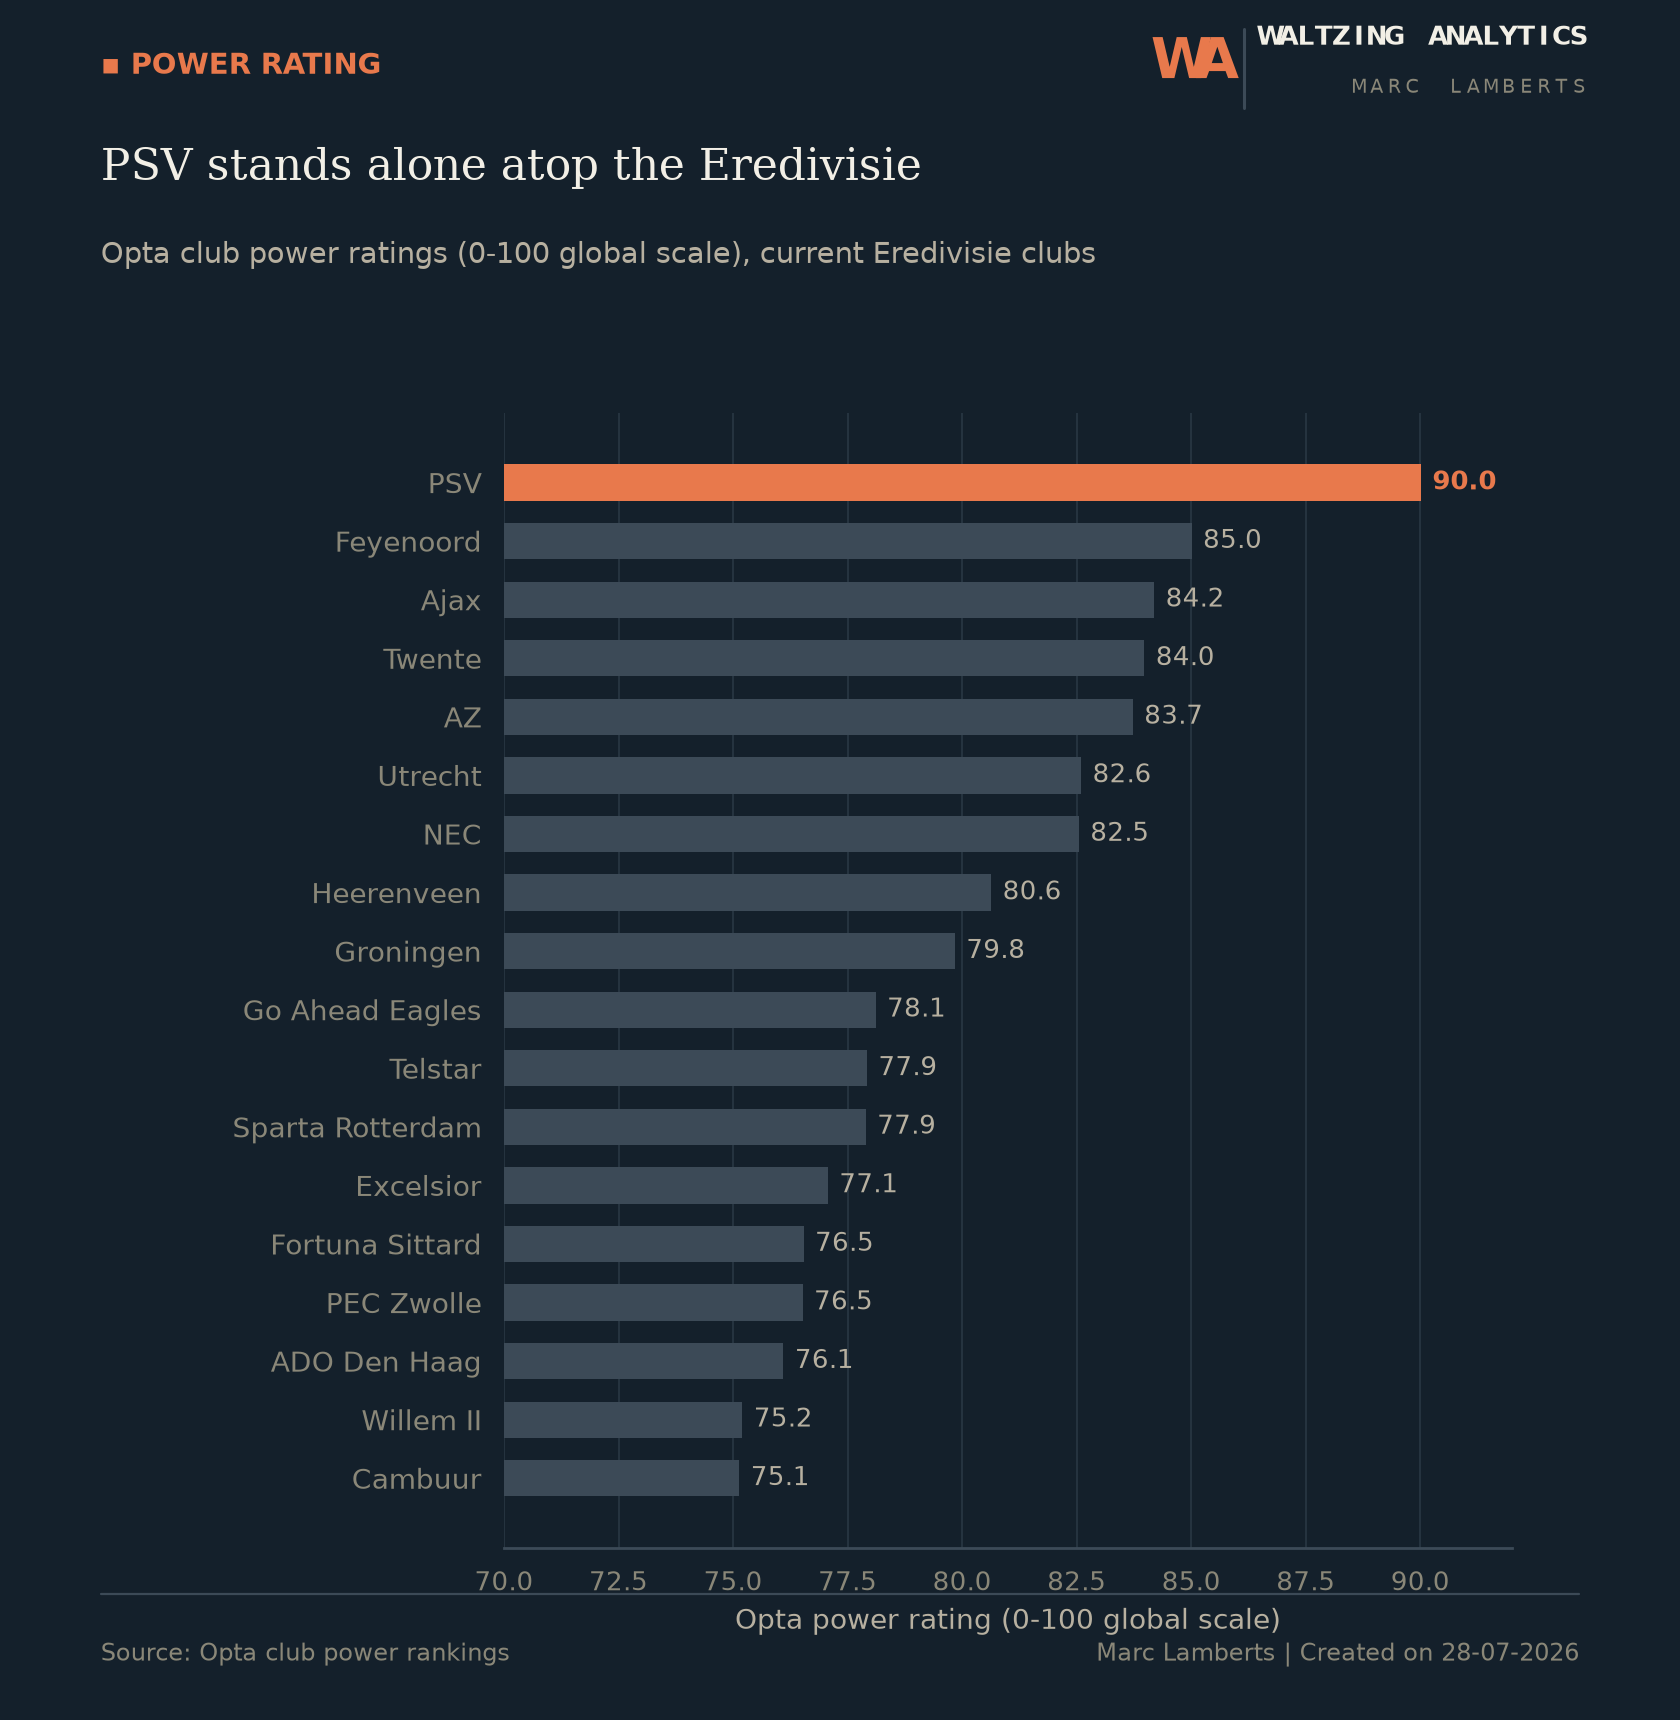
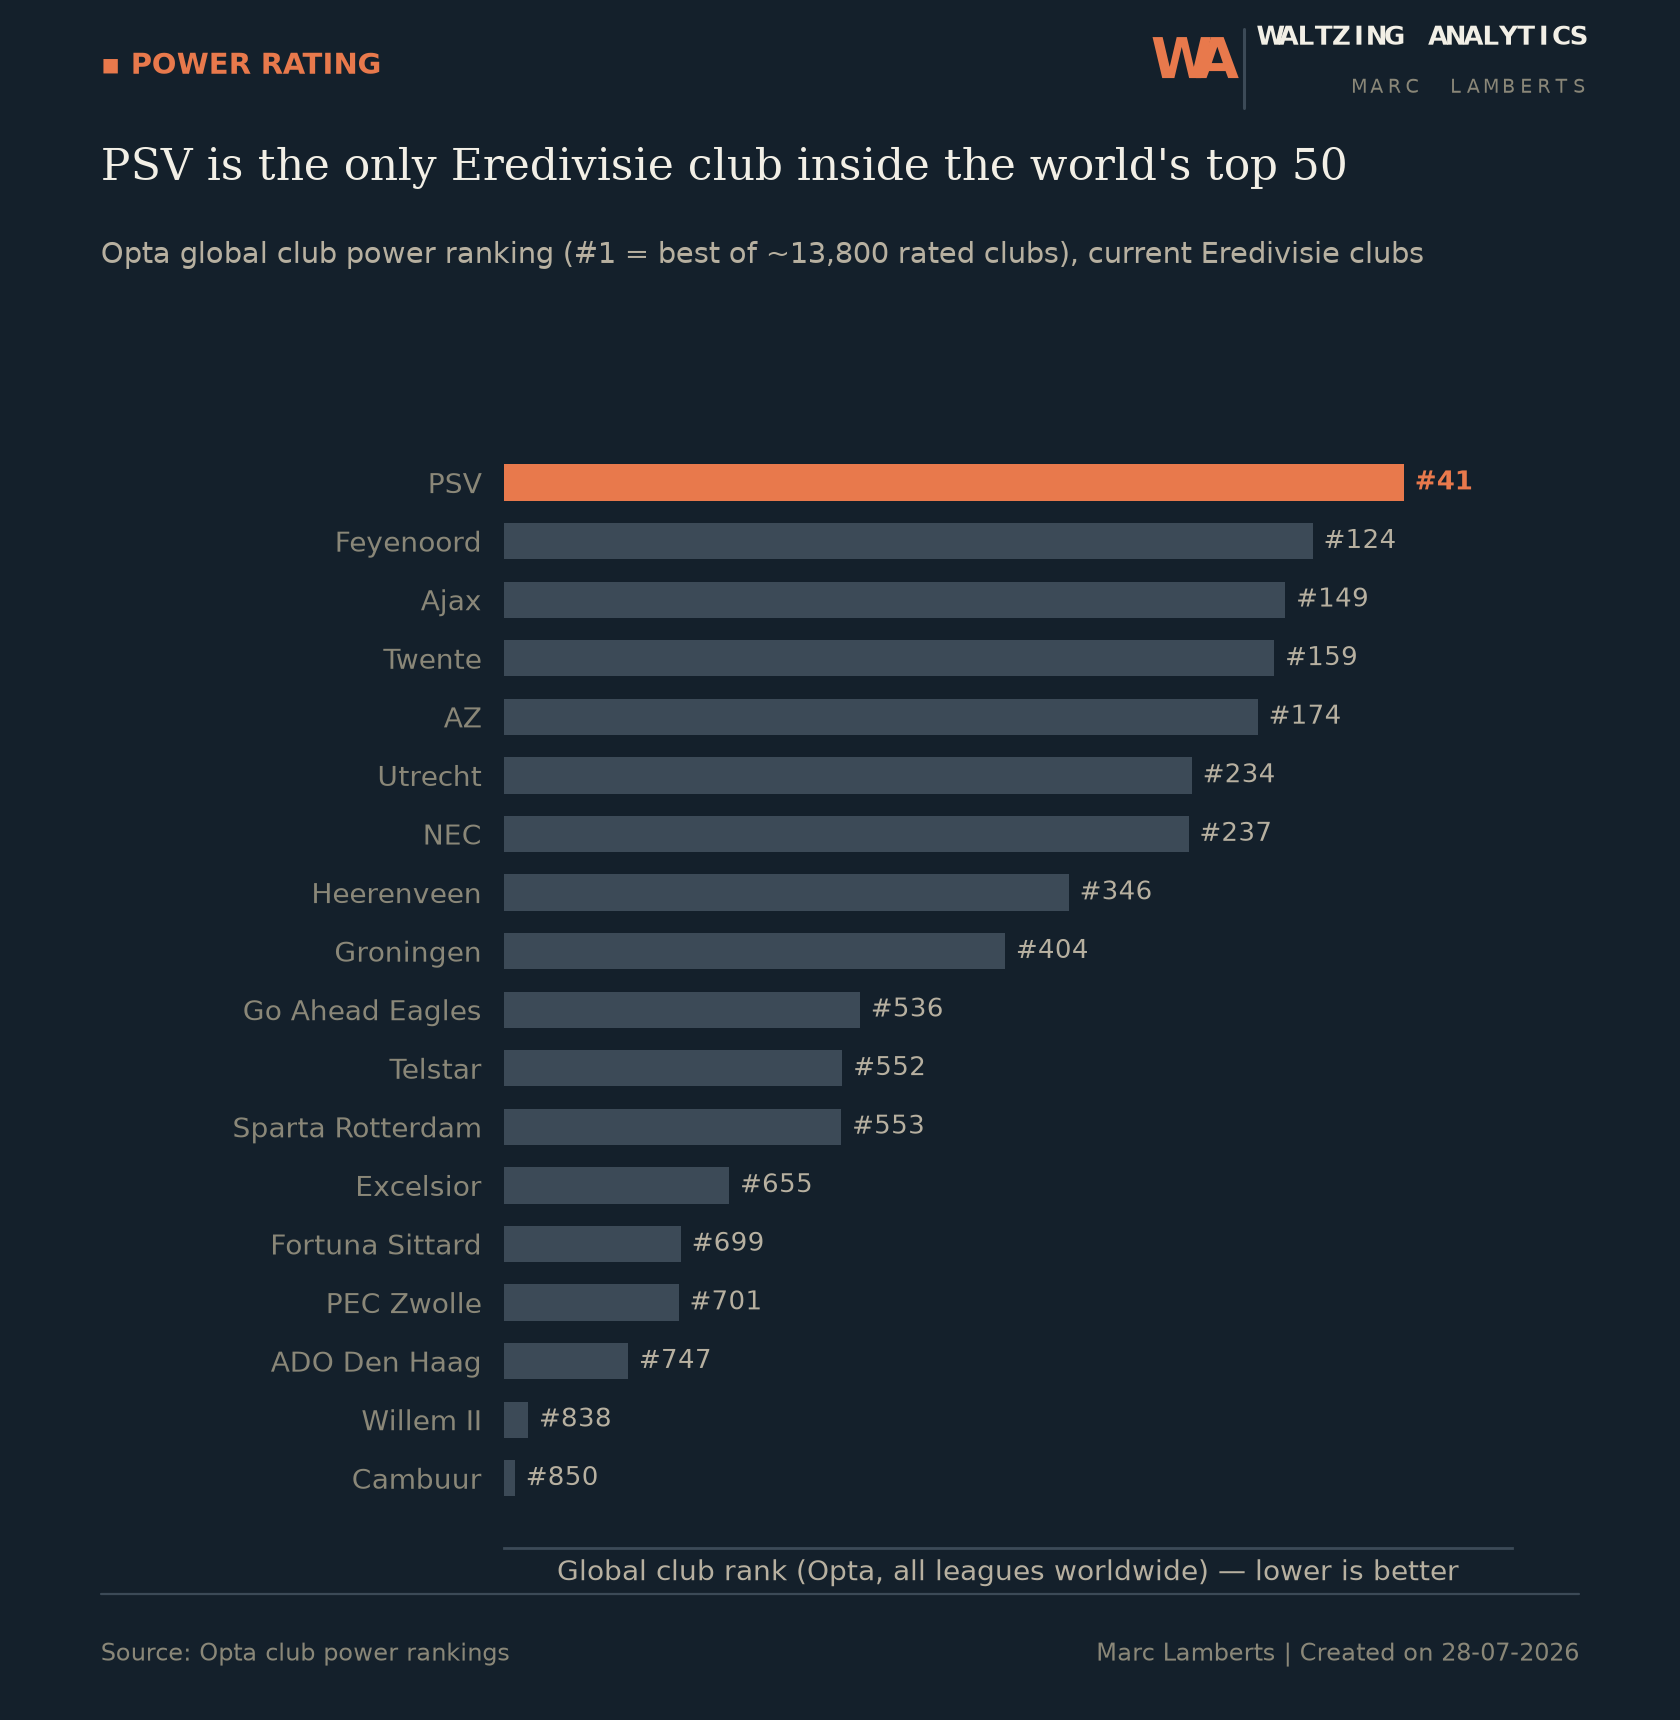
Switch power rating chart to global rank instead of rating
Bar length now encodes the club's global Opta rank (inverted so the
best rank reads as the longest bar), with the real rank number
labeled directly, rather than the 0-100 rating score.

diff --git a/Power Rating/build_power_rating_chart.py b/Power Rating/build_power_rating_chart.py
@@ -20,7 +20,9 @@ OUT_DIR = Path(__file__).resolve().parent
 def load_eredivisie_ratings() -> pd.DataFrame:
     df = pd.read_excel(DATA_PATH)
     ered = df[df["league"] == "Eredivisie"].copy()
-    ered = ered.sort_values("rating", ascending=True).reset_index(drop=True)
+    # Descending by rank (worst first) so the best (lowest) rank lands last,
+    # i.e. at the top of the horizontal bar chart.
+    ered = ered.sort_values("rank", ascending=False).reset_index(drop=True)
     return ered
 
 
@@ -31,28 +33,33 @@ def build_chart(df: pd.DataFrame, mode: str) -> None:
     ax = fig.add_axes([0.30, 0.10, 0.60, 0.66])
 
     leader = df["team"].iloc[-1]
-    bars = ax.barh(df["team"], df["rating"], height=0.62)
-    accent_index = len(df) - 1  # leader sits last after ascending sort (top of chart)
+    worst_rank = df["rank"].max()
+    # Invert rank into bar length so the best (lowest-numbered) global rank
+    # reads as the longest, most prominent bar; the real rank is annotated.
+    bar_values = worst_rank - df["rank"] + 10
+    bars = ax.barh(df["team"], bar_values, height=0.62)
+    accent_index = len(df) - 1  # leader sits last after sort (top of chart)
     components.highlight_bars(bars, accent_index=accent_index, palette=palette)
 
-    ax.set_xlim(70, 92)
-    ax.set_xlabel("Opta power rating (0-100 global scale)")
+    ax.set_xlim(0, bar_values.max() * 1.12)
+    ax.set_xticks([])
+    ax.set_xlabel("Global club rank (Opta, all leagues worldwide) — lower is better")
     ax.set_ylabel("")
-    ax.grid(axis="x", visible=True)
+    ax.grid(axis="x", visible=False)
     ax.grid(axis="y", visible=False)
     ax.tick_params(axis="y", labelsize=10)
 
-    for i, (team, rating) in enumerate(zip(df["team"], df["rating"])):
+    for i, (team, rank, value) in enumerate(zip(df["team"], df["rank"], bar_values)):
         color = palette["accent"] if i == accent_index else palette["ink_secondary"]
         weight = "bold" if i == accent_index else "normal"
-        ax.text(rating + 0.25, i, f"{rating:.1f}", va="center", ha="left",
+        ax.text(value + bar_values.max() * 0.012, i, f"#{rank:,}", va="center", ha="left",
                  fontsize=9.5, color=color, fontweight=weight)
 
     components.header(
         fig,
         kicker="Power Rating",
-        title=f"{leader} stands alone atop the Eredivisie",
-        dek="Opta club power ratings (0-100 global scale), current Eredivisie clubs",
+        title=f"{leader} is the only Eredivisie club inside the world's top 50",
+        dek="Opta global club power ranking (#1 = best of ~13,800 rated clubs), current Eredivisie clubs",
         palette=palette,
     )
     components.footer(fig, source="Opta club power rankings", palette=palette)
